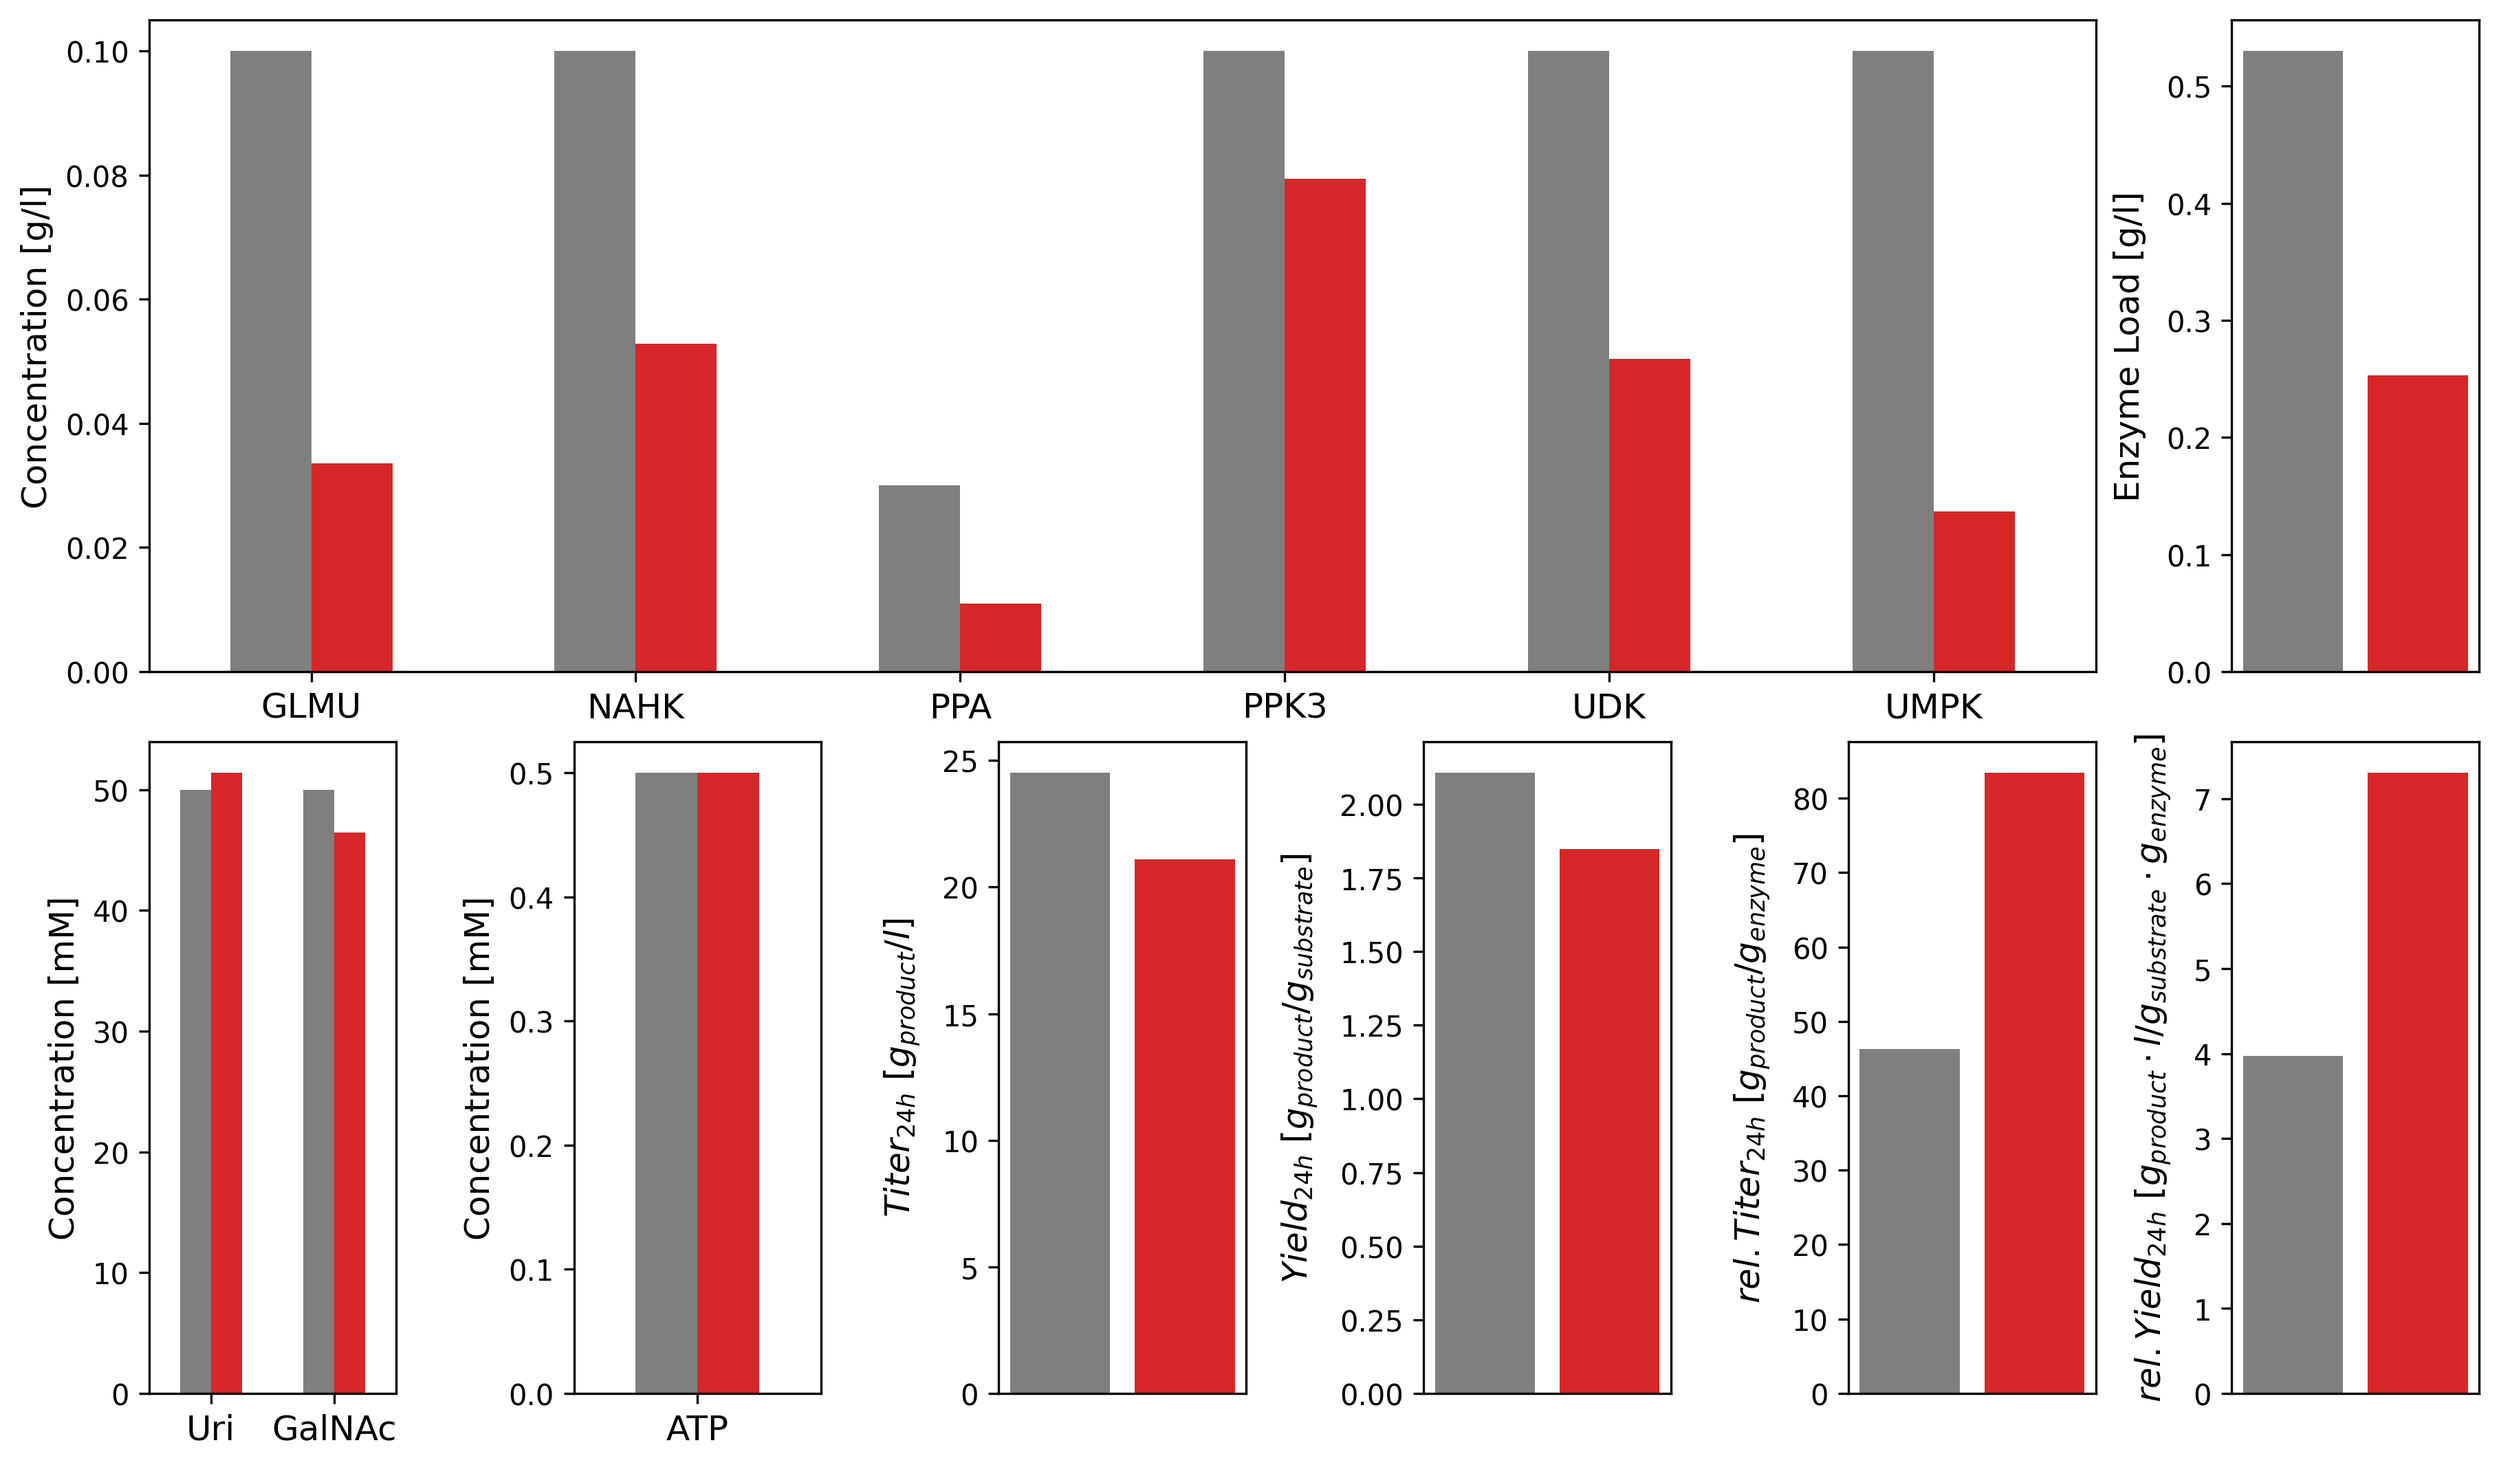
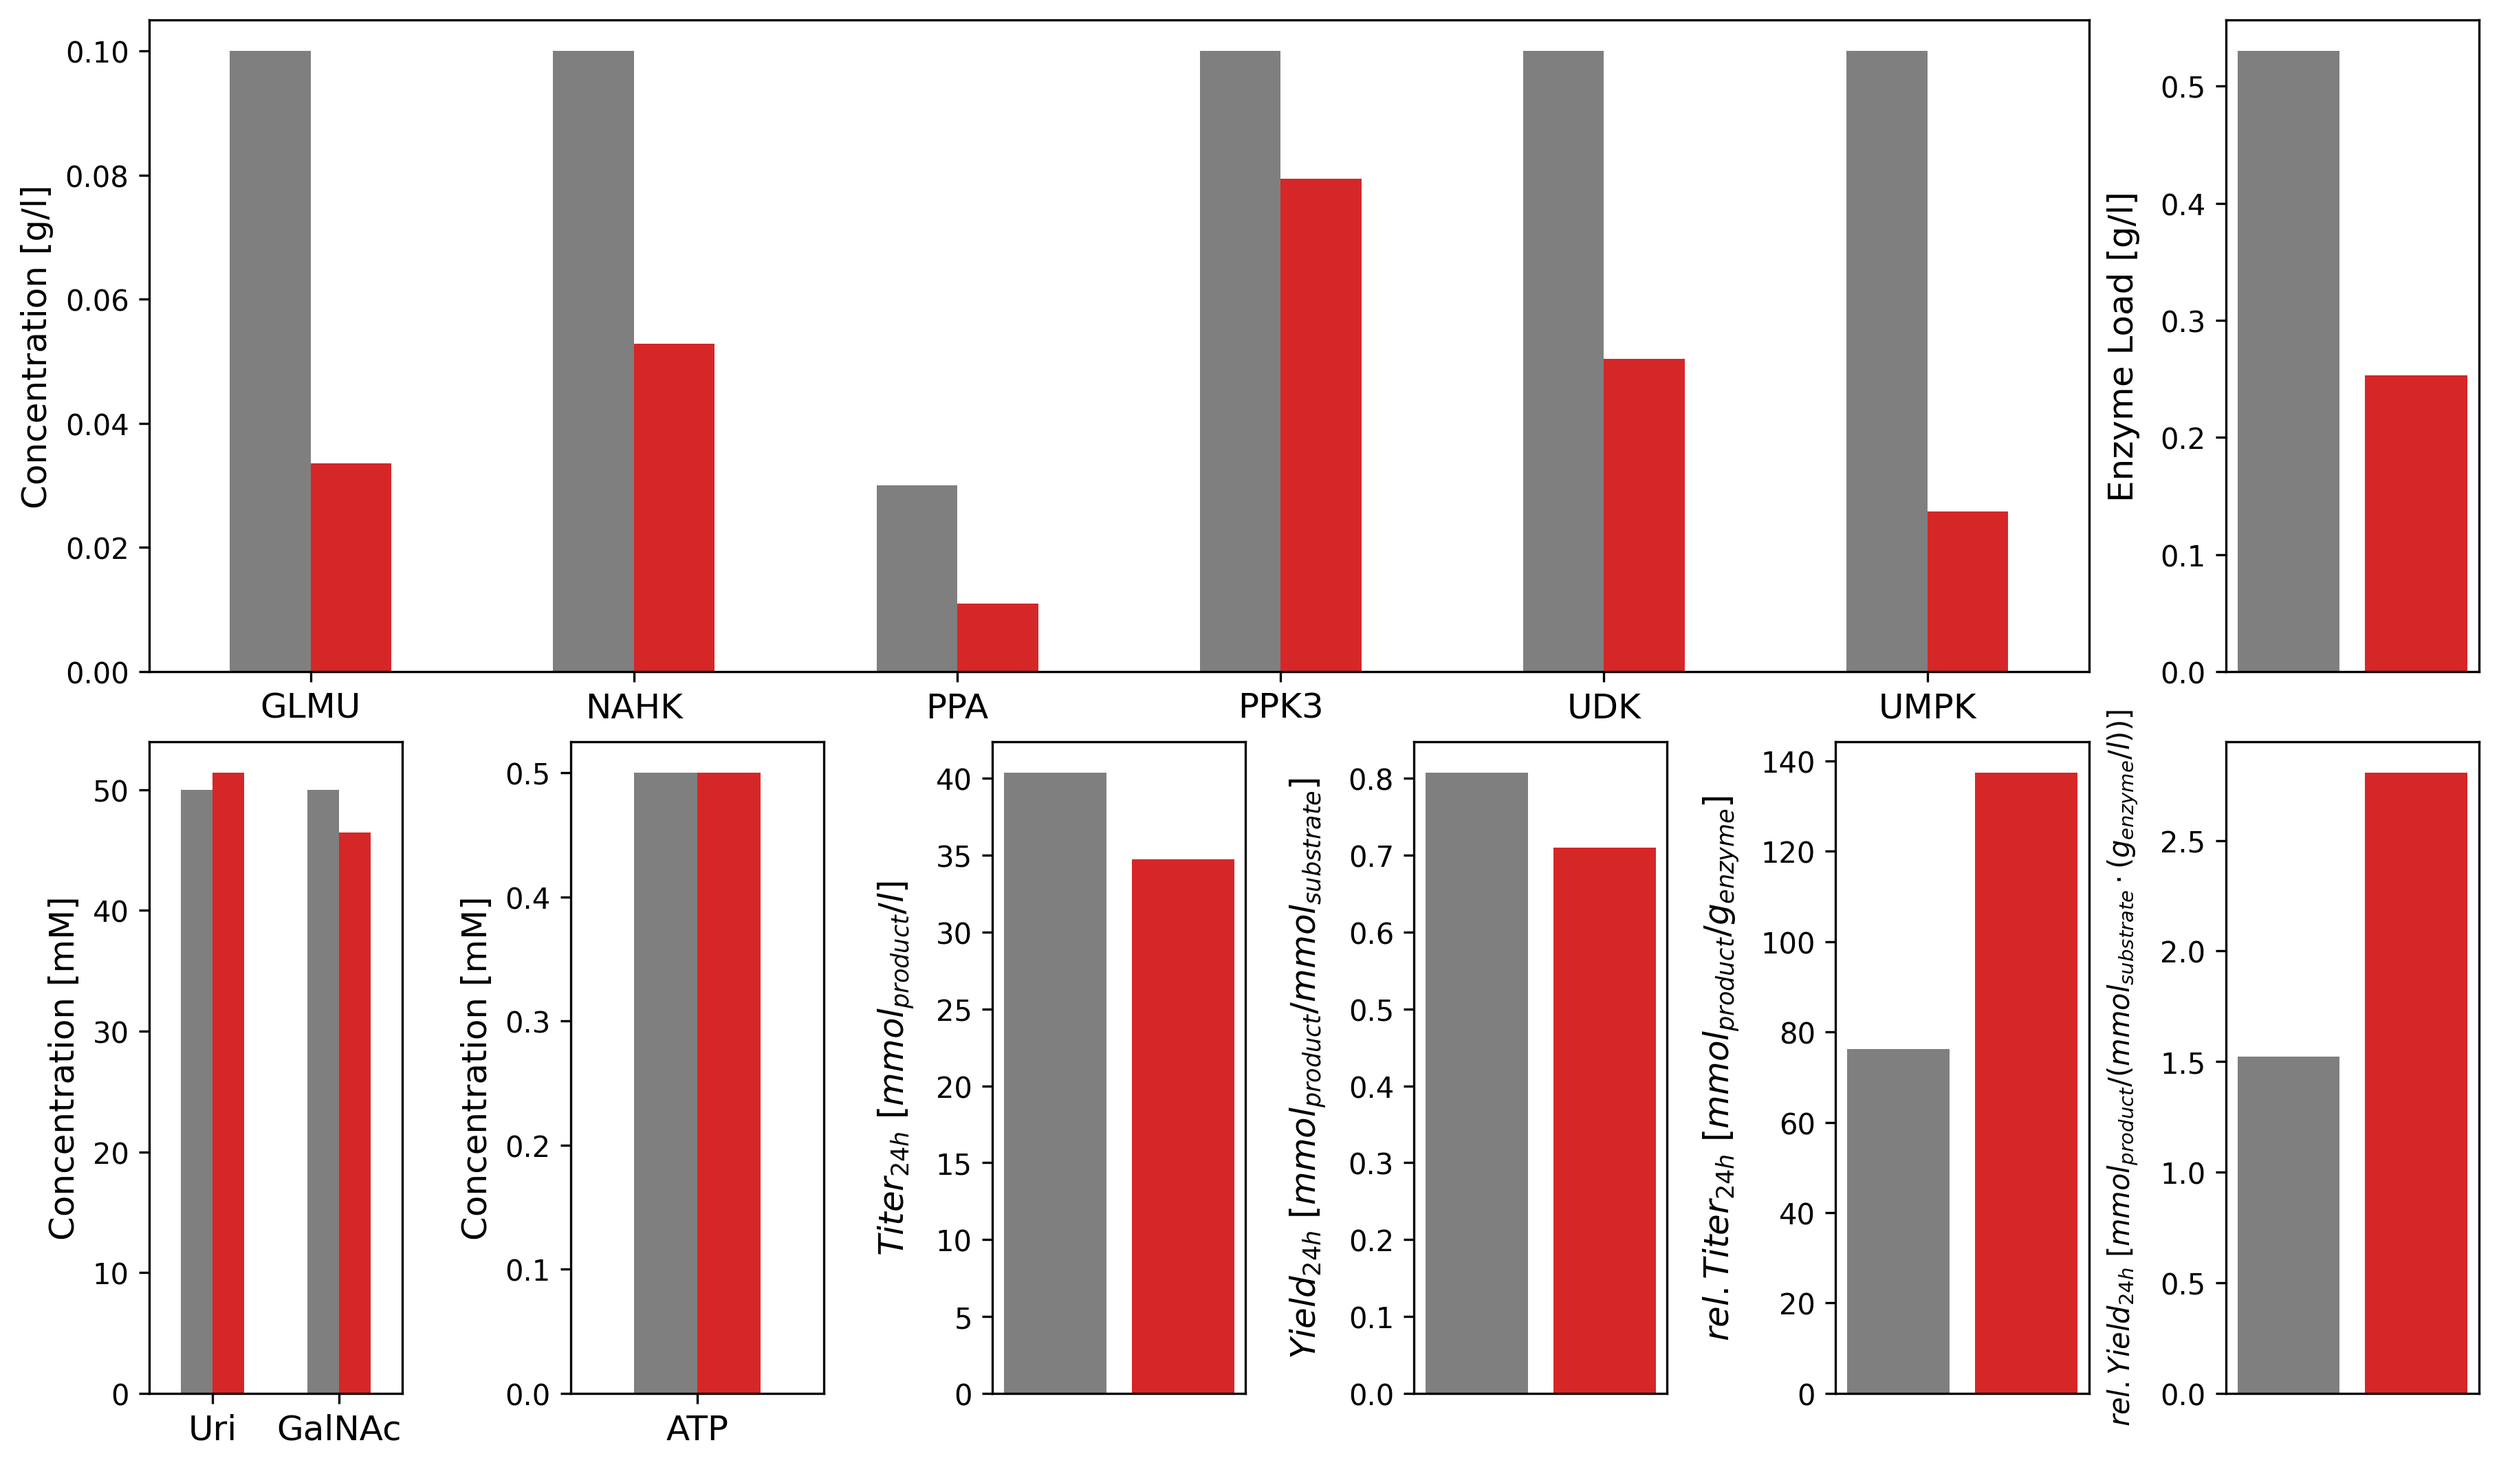
Change visualization of 'baseline vs. optimized process' bar plots

diff --git a/process_optimization/visualize_selected_predictions.py b/process_optimization/visualize_selected_predictions.py
@@ -307,10 +307,10 @@ def plot_base_opt_process_comparison(baseline_exp_data_path, best_opt_result_pat
 
     # PREPARE DATA
 
-    Uri_MW = 244.20         # [g/mol]
-    GalNAc_MW = 221.21      # [g/mol]
-    UDP_GalNAc_MW = 607.36  # [g/mol]
-    reaction_vol = 0.5      # [ml]
+#    Uri_MW = 244.20         # [g/mol]
+#    GalNAc_MW = 221.21      # [g/mol]
+#    UDP_GalNAc_MW = 607.36  # [g/mol]
+#    reaction_vol = 0.5      # [ml]
 
     # 1) get enzyme distributions (convert concentrations from mM to g/l)
     baseline_E_distr = dict(opt_result_start_init_conc.loc[[name for name in opt_result_start_init_conc.index if
@@ -363,13 +363,13 @@ def plot_base_opt_process_comparison(baseline_exp_data_path, best_opt_result_pat
                                       index=baseline_S_init_conc.keys(),
                                       columns=['substrate', 'baseline', 'optimized'])
 
-    # 4) get (absolute) product titers at the specified process time point [mmol_product/l * (g/mol * 1/1000) = g_product/l]
-    baseline_prod_titer = (baseline_data_df_raw.loc[baseline_data_df_raw['Time'] == titer_and_yield_timepoint, '[UDP_GalNAc]'].iloc[0]) * (UDP_GalNAc_MW * 1/1000)
-    opt_prod_titer = (val_data_df_raw.loc[val_data_df_raw['Time'] == titer_and_yield_timepoint, '[UDP_GalNAc]'].iloc[0]) * (UDP_GalNAc_MW * 1/1000)
+    # 4) get (absolute) product titers at the specified process time point [mmol_product/l]
+    baseline_prod_titer = baseline_data_df_raw.loc[baseline_data_df_raw['Time'] == titer_and_yield_timepoint, '[UDP_GalNAc]'].iloc[0]
+    opt_prod_titer = val_data_df_raw.loc[val_data_df_raw['Time'] == titer_and_yield_timepoint, '[UDP_GalNAc]'].iloc[0]
 
-    # 5) calculate (absolute) product yields [(g_product/l)/(g_substrate/l) = (g_product)/(g_substrate)]:
-    baseline_yield = (2*(baseline_prod_titer)) / ( (baseline_S_init_conc['Uri']*Uri_MW*1/1000) + (baseline_S_init_conc['GalNAc']*GalNAc_MW*1/1000))
-    opt_yield = (2*(opt_prod_titer)) / ( (opt_S_init_conc['Uri']*Uri_MW*1/1000) + (opt_S_init_conc['GalNAc']*GalNAc_MW*1/1000) )
+    # 5) calculate (absolute) product yields [mmol product/l / mmol substrate/l = mmol product / mmol substrate]
+    baseline_yield = (2*(baseline_prod_titer)) / (baseline_S_init_conc['Uri'] + baseline_S_init_conc['GalNAc'])
+    opt_yield = (2*(opt_prod_titer)) / (opt_S_init_conc['Uri'] + opt_S_init_conc['GalNAc'])
 
     # VISUALIZE DATA
     fig, axes = plt.subplot_mosaic([['E_distr', 'E_distr', 'E_distr', 'E_distr', 'E_distr', 'E_tot',],
@@ -408,38 +408,38 @@ def plot_base_opt_process_comparison(baseline_exp_data_path, best_opt_result_pat
     axes['S_ATP_distr'].set_ylabel('Concentration [mM]', fontsize=font_size)
     axes['S_ATP_distr'].get_legend().remove()
 
-    # plot absolute values of product titers [g_product/l] and product yields [g_product/g_substrate]
+    # plot absolute values of product titers [mmol product/l] and product yields [mmol product/mmol_substrate]
     axes['titer_abs'].bar(['baseline_titer_abs', 'optimized_titer_abs'],
                 [baseline_prod_titer, opt_prod_titer],
                 color=colors)
     axes['titer_abs'].set_xticklabels([])
     axes['titer_abs'].set_xticks([])
-    axes['titer_abs'].set_ylabel('$Titer_{' + str(titer_and_yield_timepoint) + 'h}$ [$g_{product}/l$]', labelpad=7, fontsize=font_size)
+    axes['titer_abs'].set_ylabel('$Titer_{' + str(titer_and_yield_timepoint) + 'h}$ [$mmol_{product}/l$]', labelpad=7, fontsize=font_size)
     axes['yield_abs'].bar(['baseline_yield_abs', 'optimized_yield_abs'],
                 [baseline_yield, opt_yield],
                 color=colors)
     axes['yield_abs'].set_xticklabels([])
     axes['yield_abs'].set_xticks([])
-    axes['yield_abs'].set_ylabel('$Yield_{' + str(titer_and_yield_timepoint) + 'h}$ [$g_{product}/g_{substrate}$]', labelpad=7, fontsize=font_size)
+    axes['yield_abs'].set_ylabel('$Yield_{' + str(titer_and_yield_timepoint) + 'h}$ [$mmol_{product}/mmol_{substrate}$]', labelpad=7, fontsize=font_size)
 
     # only plot relative values of product titers and product yields if it makes sense, i.e., if the enzyme load is different between the baseline and the optimized scenario (which in turn will lead to a difference between absolute and relative titers/yields)
     if np.round(baseline_E_tot['gram_enzyme_load'], 2) != np.round(opt_E_tot['gram_enzyme_load'], 2):
-        # relative titer = (absolute titer [g_product/l] ) / enzyme load [g_enzyme/l] => final unit: (g_product)/(g_enzyme)
+        # relative titer: (absolute titer [mmol product/l] ) / enzyme load [g enzyme/l] => (mmol product)/(g enzyme)
         axes['titer_rel'].bar(['baseline_titer_rel', 'optimized_titer_rel'],
                     [baseline_prod_titer / baseline_E_tot['gram_enzyme_load'],
                      opt_prod_titer / opt_E_tot['gram_enzyme_load']],
                     color=colors)
         axes['titer_rel'].set_xticklabels([])
         axes['titer_rel'].set_xticks([])
-        axes['titer_rel'].set_ylabel('$rel. Titer_{' + str(titer_and_yield_timepoint) + 'h}$ [$g_{product}/g_{enzyme}$]', labelpad=7, fontsize=font_size)
-        # relative yield = absolute yield [g_product/g_substrate] / enzyme load [g_enzyme/l] => final unit: (g_product * l)/(g_substrate * g_enzyme)
+        axes['titer_rel'].set_ylabel('$rel. Titer_{' + str(titer_and_yield_timepoint) + 'h}$ [$mmol_{product}/g_{enzyme}$]', labelpad=7, fontsize=font_size)
+        # relative yield = absolute yield [mmol product/ mmol substrate] / enzyme load [g enzyme/l] => (mmol product)/(mmol substrat * (g enzyme/l))
         axes['yield_rel'].bar(['baseline_yield_rel', 'optimized_yield_rel'],
                     [baseline_yield / baseline_E_tot['gram_enzyme_load'], 
                     opt_yield / opt_E_tot['gram_enzyme_load']],
                     color=colors)
         axes['yield_rel'].set_xticklabels([])
         axes['yield_rel'].set_xticks([])
-        axes['yield_rel'].set_ylabel('$rel. Yield_{' + str(titer_and_yield_timepoint) + 'h}$ [$g_{product} \cdot l/g_{substrate} \cdot g_{enzyme}$]', labelpad=7, fontsize=font_size)
+        axes['yield_rel'].set_ylabel('$rel. Yield_{' + str(titer_and_yield_timepoint) + 'h}$ [$mmol_{product}/(mmol_{substrate} \cdot (g_{enzyme}/l))$]', labelpad=7, fontsize=font_size-2)
     else:
         axes['titer_rel'].axis("off")
         axes['yield_rel'].axis("off")
@@ -480,6 +480,18 @@ opt_var_a_path = cwd / 'a_constPolyP32mM_ubATP2.5mM'
 
 # 1) Titer Maximization at 7 h s.t. Maximal Enzyme Load
 
+# Model Variant: NegCtrl, Optimization Result: OP01withS_7h[O15], Validation Experiment: Exp40_TB7h
+model_path = f'{opt_var_a_path}\\NegCtrl\\ImpExtSearch_v23b_NegCtrl.cps'
+fits_data_path = f'{opt_var_a_path}\\NegCtrl\\sampling_output_Particle_Swarm50runs_v23bNegControl_Exp36.37.39.csv'
+best_opt_result_path = f'{opt_var_a_path}\\NegCtrl\\ImpExtSearch_v23b_NegCtrl_PartSwarm50x_OP01withS_7h_CrossVal_Scoring_Result_O15.pkl'
+exp_val_data_path = f'{str(exp_val_data_dir)}\\UDP-GalNAc40_TB7h_with_initConcColumns.txt'
+exp_val_data_SD_path = f'{str(exp_val_data_dir)}\\UDP-GalNAc40_TB7h_SD.txt'
+tc_plot_result_file_path = f'{opt_var_a_path}\\NegCtrl\\ImpExtSearch_v23b_NegCtrl_OP01withS_7h_O15'
+visualize_predTC_withValData(model_path, fits_data_path, best_opt_result_path, exp_val_data_path, exp_val_data_SD_path, tc_plot_result_file_path)
+titer_and_yield_timepoint = 7  # [h]
+perf_plot_result_file_path = f'{opt_var_a_path}\\NegCtrl\\ImpExtSearch_v23b_NegCtrl_OP01withS_7h_O15_base_opt_compare'
+plot_base_opt_process_comparison(baseline_exp_data_path, best_opt_result_path, exp_val_data_path, titer_and_yield_timepoint, perf_plot_result_file_path)
+
 # Model Variant: rep2_MV5, Optimization Result: OP01withS_7h[O11], Validation Experiment: Exp40_TO7h
 model_path = f'{opt_var_a_path}\\rep2_MV5\\ImpExtSearch_v23b_rep2_MV5.cps'
 fits_data_path = f'{opt_var_a_path}\\rep2_MV5\\sampling_output_Particle_Swarm50runs_ImpExtSearch_v23b_rep2_ModelVar5.csv'
@@ -497,7 +509,45 @@ plot_base_opt_process_comparison(baseline_exp_data_path, best_opt_result_path, e
 # Optimization Variant: b_constPolyP32mMATP0.5mM
 opt_var_b_path = cwd / 'b_constPolyP32mMATP0.5mM'
 
-# 2) Enzyme Load Minimization s.t. Minimal Titer and Yield
+# 2) Titer Maximization at 12 h s.t. Maximal Enzyme Load
+
+# Model Variant: NegCtrl, Optimization Result: OP01withS_12h[O34], Validation Experiment: Exp40_TB12h
+model_path = f'{opt_var_b_path}\\NegCtrl\\ImpExtSearch_v23b_NegCtrl.cps'
+fits_data_path = f'{opt_var_b_path}\\NegCtrl\\sampling_output_Particle_Swarm50runs_v23bNegControl_Exp36.37.39.csv'
+best_opt_result_path = f'{opt_var_b_path}\\NegCtrl\\ImpExtSearch_v23b_NegCtrl_PartSwarm50x_OP01withS_12h_CrossVal_Scoring_Result_O34.pkl'
+exp_val_data_path = f'{str(exp_val_data_dir)}\\UDP-GalNAc40_TB12h_with_initConcColumns.txt'
+exp_val_data_SD_path = f'{str(exp_val_data_dir)}\\UDP-GalNAc40_TB12h_SD.txt'
+tc_plot_result_file_path = f'{opt_var_b_path}\\NegCtrl\\ImpExtSearch_v23b_NegCtrl_OP01withS_12h_O34'
+visualize_predTC_withValData(model_path, fits_data_path, best_opt_result_path, exp_val_data_path, exp_val_data_SD_path, tc_plot_result_file_path)
+titer_and_yield_timepoint = 12  # [h]
+perf_plot_result_file_path = f'{opt_var_b_path}\\NegCtrl\\ImpExtSearch_v23b_NegCtrl_OP01withS_12h_O34_base_opt_compare'
+plot_base_opt_process_comparison(baseline_exp_data_path, best_opt_result_path, exp_val_data_path, titer_and_yield_timepoint, perf_plot_result_file_path)
+
+# Model Variant: rep2_MV5, Optimization Result: OP01withS_12h[O21], Validation Experiment: Exp40_TO12h
+model_path = f'{opt_var_b_path}\\rep2_MV5\\ImpExtSearch_v23b_rep2_MV5.cps'
+fits_data_path = f'{opt_var_b_path}\\rep2_MV5\\sampling_output_Particle_Swarm50runs_ImpExtSearch_v23b_rep2_ModelVar5.csv'
+best_opt_result_path = f'{opt_var_b_path}\\rep2_MV5\\ImpExtSearch_v23b_rep2_MV5_PartSwarm50x_OP01withS_12h_CrossVal_Scoring_Result_O21.pkl'
+exp_val_data_path = f'{str(exp_val_data_dir)}\\UDP-GalNAc40_TO12h_with_initConcColumns.txt'
+exp_val_data_SD_path = f'{str(exp_val_data_dir)}\\UDP-GalNAc40_TO12h_SD.txt'
+result_file_name = f'{opt_var_b_path}\\rep2_MV5\\ImpExtSearch_v23b_rep2_MV5_OP01withS_12h_O21'
+visualize_predTC_withValData(model_path, fits_data_path, best_opt_result_path, exp_val_data_path, exp_val_data_SD_path, result_file_name)
+titer_and_yield_timepoint = 12  # [h]
+perf_plot_result_file_path = f'{opt_var_b_path}\\rep2_MV5\\ImpExtSearch_v23b_rep2_MV5_OP01withS_12h_O21_base_opt_compare'
+plot_base_opt_process_comparison(baseline_exp_data_path, best_opt_result_path, exp_val_data_path, titer_and_yield_timepoint, perf_plot_result_file_path)
+
+# 3) Enzyme Load Minimization s.t. Minimal Titer and Yield
+
+# Model Variant: NegCtrl, Optimization Result: OP05withS[O27], Validation Experiment: Exp40_LB
+model_path = f'{opt_var_b_path}\\NegCtrl\\ImpExtSearch_v23b_NegCtrl.cps'
+fits_data_path = f'{opt_var_b_path}\\NegCtrl\\sampling_output_Particle_Swarm50runs_v23bNegControl_Exp36.37.39.csv'
+best_opt_result_path = f'{opt_var_b_path}\\NegCtrl\\ImpExtSearch_v23b_NegCtrl_PartSwarm50x_OP05withS_CrossVal_Scoring_Result_O27.pkl'
+exp_val_data_path = f'{str(exp_val_data_dir)}\\UDP-GalNAc40_LB_with_initConcColumns.txt'
+exp_val_data_SD_path = f'{str(exp_val_data_dir)}\\UDP-GalNAc40_LB_SD.txt'
+result_file_name = f'{opt_var_b_path}\\NegCtrl\\ImpExtSearch_v23b_NegCtrl_OP05withS_O27'
+visualize_predTC_withValData(model_path, fits_data_path, best_opt_result_path, exp_val_data_path, exp_val_data_SD_path, result_file_name)
+titer_and_yield_timepoint = 24  # [h]
+perf_plot_result_file_path = f'{opt_var_b_path}\\NegCtrl\\ImpExtSearch_v23b_NegCtrl_OP05withS_O27_base_opt_compare'
+plot_base_opt_process_comparison(baseline_exp_data_path, best_opt_result_path, exp_val_data_path, titer_and_yield_timepoint, perf_plot_result_file_path)
 
 # Model Variant: rep2_MV5, Optimization Result: OP05withS[O19], Validation Experiment: Exp40_LO
 model_path = f'{opt_var_b_path}\\rep2_MV5\\ImpExtSearch_v23b_rep2_MV5.cps'
